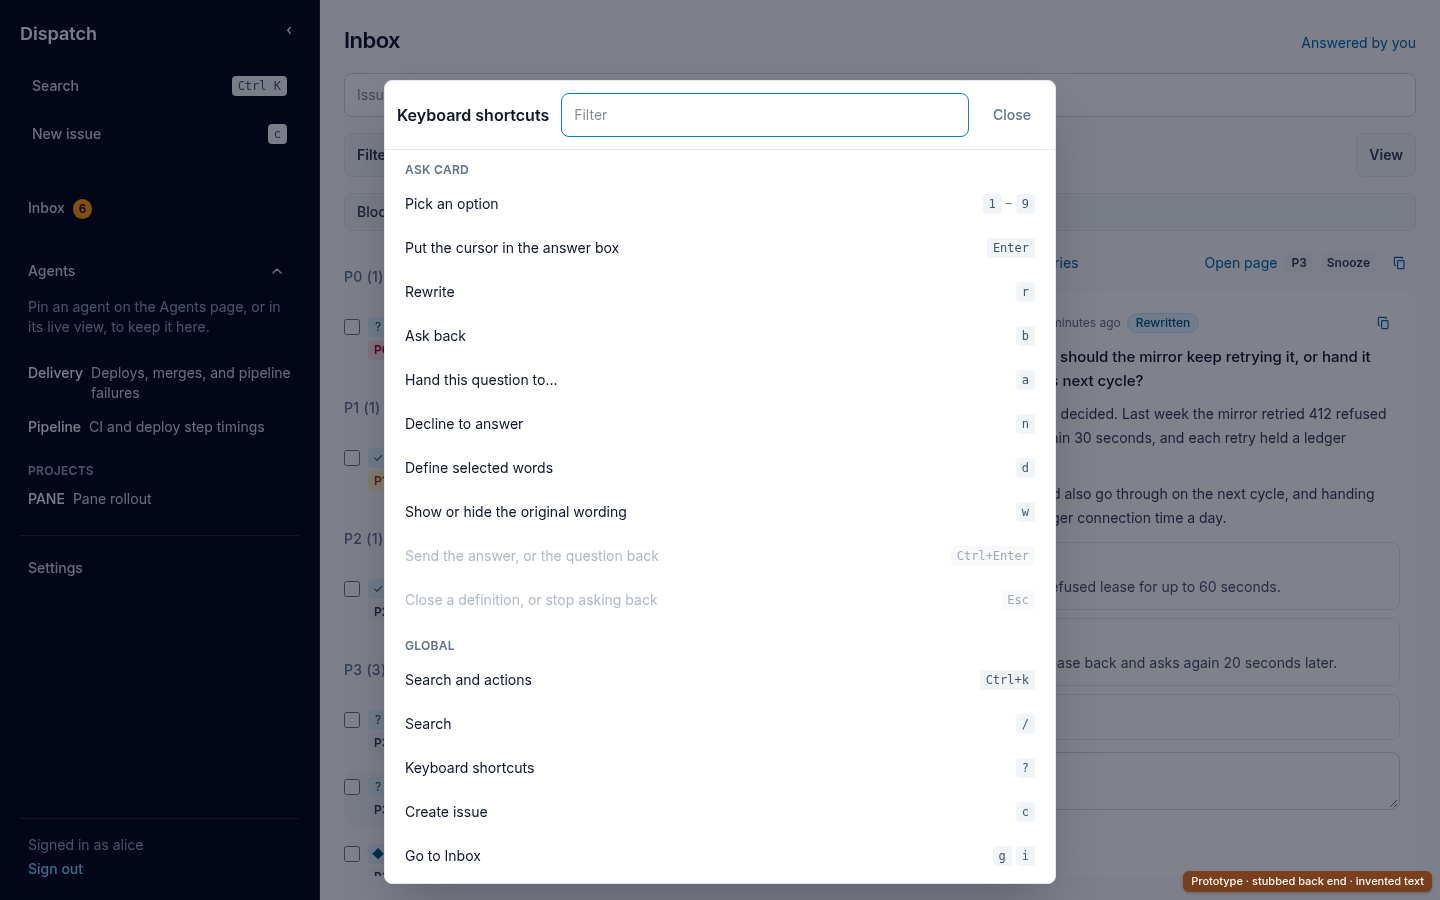
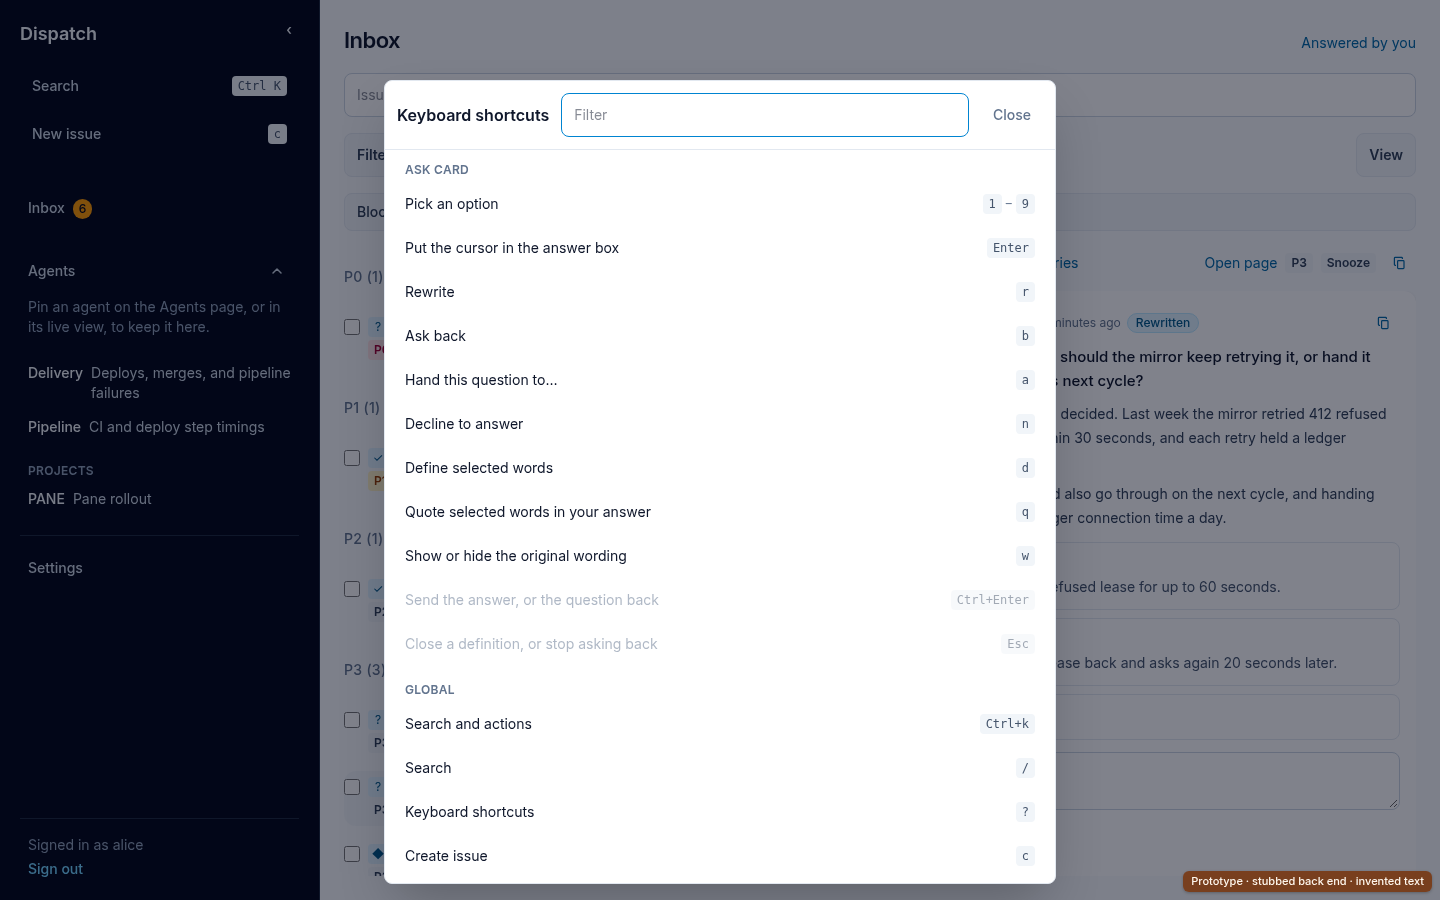
assets: the ask card's 29 pictures built at 98577e079cd8e9ca469f9643d207e1f78a5af57e (INFRA-3231)

diff --git a/build/98577e079cd8e9ca469f9643d207e1f78a5af57e/report.md b/build/98577e079cd8e9ca469f9643d207e1f78a5af57e/report.md
@@ -1,0 +1,33 @@
+# The ask card's pictures built at 98577e079cd8e9ca469f9643d207e1f78a5af57e
+
+| Screen | Size | Changed pixels |
+| --- | --- | ---: |
+| ask-card-01-closed-inbox | 1440x900 | 0.75% |
+| ask-card-02-menu-open | 1440x900 | 0.75% |
+| ask-card-03-rewriting | 1440x900 | 0.76% |
+| ask-card-04-rewritten | 1440x900 | 0.75% |
+| ask-card-05-original-shown | 1440x900 | 0.75% |
+| ask-card-06-rewrite-failed | 1440x900 | 0.75% |
+| ask-card-07-reviewer-rewritten-inbox | 1440x900 | 0.75% |
+| ask-card-08-define-ask-from-record | 1440x900 | 0.75% |
+| ask-card-09-define-ask-with-agent | 1440x900 | 0.75% |
+| ask-card-10-define-document-read-view | 1440x900 | 0.76% |
+| ask-card-11-define-document-edit-bar | 1440x900 | 4.51% |
+| ask-card-12-define-document-edit-view | 1440x900 | 4.06% |
+| ask-card-13-shortcut-help | 1440x900 | 0.69% |
+| ask-card-14-phone-card | 390x844 | 0.85% |
+| ask-card-15-phone-menu | 390x844 | 0.86% |
+| ask-card-16-approval-menu | 1440x900 | 3.49% |
+| ask-card-17-reaches | 1440x900 | 0.76% |
+| ask-card-18-block-rewritten | 1440x900 | 0.79% |
+| ask-card-19-block-original | 1440x900 | 2.80% |
+| ask-card-20-handed-on | 1440x900 | 0.75% |
+| ask-card-21-comment-rewritten | 1440x900 | 3.40% |
+| ask-card-22-comment-original | 1440x900 | 3.08% |
+| ask-card-23-issue-rewritten | 1440x900 | 3.18% |
+| ask-card-24-quote-select | 1440x900 | 0.75% |
+| ask-card-25-quote-ask | 1440x900 | 0.75% |
+| ask-card-26-quote-comment | 1440x900 | 3.56% |
+| ask-card-27-quote-append | 1440x900 | 0.75% |
+| ask-card-28-quote-message | 1440x900 | 3.41% |
+| ask-card-29-quote-answered-thread | 1440x900 | 0.76% |

diff --git a/README.md b/README.md
@@ -1,5 +1,5 @@
 # INFRA-3231 ask card pictures
 
-demo/ holds the 23 pictures of the approved demo (the spec's Design names them, as artifacts of INFRA-3231).
-build/<commit>/ holds the same 23 screens taken from the real stack at that commit by packages/dispatch/e2e/ask-card-pictures.e2e.ts, with each one's share of changed pixels in report.md.
+demo/ holds the 29 pictures of the approved demo (the spec's Design names them, as artifacts of INFRA-3231), each at its newest version.
+build/<commit>/ holds the same screens taken from the real stack at that commit by packages/dispatch/e2e/ask-card-pictures.e2e.ts, with each one's share of changed pixels in report.md.
 This branch is evidence for pull request #3981; it is never merged.
